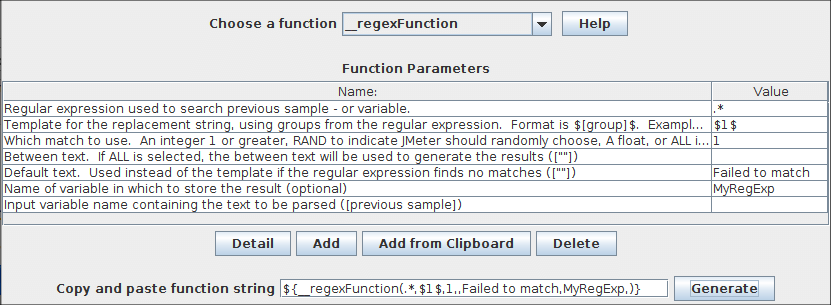
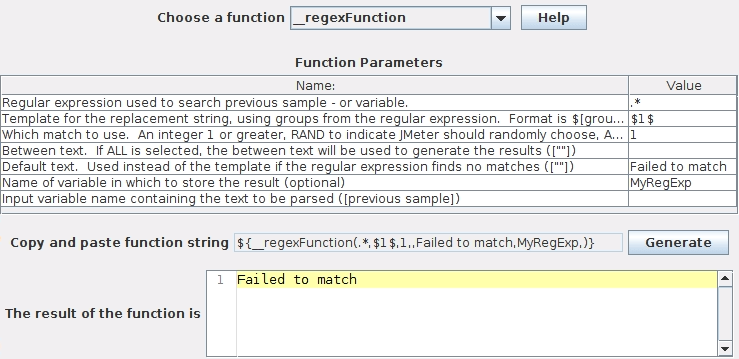
Bug 61593 - Remove Detail, Add, Add from Clipboard, Delete buttons in Function Helper GUI
git-svn-id: https://svn.apache.org/repos/asf/jmeter/trunk@1811449 13f79535-47bb-0310-9956-ffa450edef68

Former-commit-id: 27ee12c4b30f0329b08717eebb8753062e3b7835

diff --git a/src/core/org/apache/jmeter/config/gui/ArgumentsPanel.java b/src/core/org/apache/jmeter/config/gui/ArgumentsPanel.java
@@ -97,7 +97,11 @@ public class ArgumentsPanel extends AbstractConfigGui implements ActionListener 
     /** Button to show the detail of an argument*/
     private JButton showDetail;
 
+    /** Enable Up & Down buttons */
     private final boolean enableUpDown;
+    
+    /** Disable buttons :Detail, Add, Add from Clipboard, Delete, Up & Down*/
+    private final boolean disableButtons;
 
     /** Command for adding a row to the table. */
     private static final String ADD = "add"; // $NON-NLS-1$
@@ -152,6 +156,17 @@ public class ArgumentsPanel extends AbstractConfigGui implements ActionListener 
     public ArgumentsPanel(String label, boolean enableUpDown) {
         this(label, null, enableUpDown, false);
     }
+    
+    /**
+     * Create a new ArgumentsPanel as an embedded component, using the specified
+     * title.
+     * 
+     * @param disableButtons Remove Edit all buttons 
+     * @param label the title for the component.
+     */
+    public ArgumentsPanel(boolean disableButtons, String label) {
+        this(label, null, false, false, null, disableButtons);
+    }
 
     /**
      * Create a new ArgumentsPanel with a border and color background
@@ -170,9 +185,9 @@ public class ArgumentsPanel extends AbstractConfigGui implements ActionListener 
      * @param standalone is standalone
      */
     public ArgumentsPanel(String label, Color bkg, boolean enableUpDown, boolean standalone) {
-        this(label, bkg, enableUpDown, standalone, null);
+        this(label, bkg, enableUpDown, standalone, null, false);
     }
-       
+
     /**
      * Create a new ArgumentsPanel with a border and color background
      * @param label text for label
@@ -182,8 +197,22 @@ public class ArgumentsPanel extends AbstractConfigGui implements ActionListener 
      * @param model the table model to use
      */
     public ArgumentsPanel(String label, Color bkg, boolean enableUpDown, boolean standalone, ObjectTableModel model) {
+        this(label, bkg, enableUpDown, standalone, model, false);
+    }
+
+    /**
+     * Create a new ArgumentsPanel with a border and color background
+     * @param label text for label
+     * @param bkg background colour
+     * @param enableUpDown Add up/down buttons
+     * @param standalone is standalone
+     * @param model the table model to use
+     * @param disableButtons Remove all buttons 
+     */
+    public ArgumentsPanel(String label, Color bkg, boolean enableUpDown, boolean standalone, ObjectTableModel model, boolean disableButtons) {
         tableLabel = new JLabel(label);
         this.enableUpDown = enableUpDown;
+        this.disableButtons = disableButtons;
         this.background = bkg;
         this.standalone = standalone;
         this.tableModel = model;
@@ -297,25 +326,27 @@ public class ArgumentsPanel extends AbstractConfigGui implements ActionListener 
     }    
     
     protected void checkButtonsStatus() {
-        // Disable DELETE if there are no rows in the table to delete.
-        if (tableModel.getRowCount() == 0) {
-            delete.setEnabled(false);
-            showDetail.setEnabled(false);
-        } else {
-            delete.setEnabled(true);
-            showDetail.setEnabled(true);
+        if (!disableButtons) {
+            // Disable DELETE if there are no rows in the table to delete.
+            if (tableModel.getRowCount() == 0) {
+                delete.setEnabled(false);
+                showDetail.setEnabled(false);
+            } else {
+                delete.setEnabled(true);
+                showDetail.setEnabled(true);
+            }
+            if(enableUpDown) {
+                if(tableModel.getRowCount()>1) {
+                    up.setEnabled(true);
+                    down.setEnabled(true);
+                }
+                else {
+                    up.setEnabled(false);
+                    down.setEnabled(false);
+                }
+            }
         }
         
-        if(enableUpDown) {
-            if(tableModel.getRowCount()>1) {
-                up.setEnabled(true);
-                down.setEnabled(true);
-            }
-            else {
-                up.setEnabled(false);
-                down.setEnabled(false);
-            }
-        }
     }
 
     @Override
@@ -340,20 +371,23 @@ public class ArgumentsPanel extends AbstractConfigGui implements ActionListener 
      */
     @Override
     public void actionPerformed(ActionEvent e) {
-        String action = e.getActionCommand();
-        if (action.equals(DELETE)) {
-            deleteArgument();
-        } else if (action.equals(ADD)) {
-            addArgument();
-        } else if (action.equals(ADD_FROM_CLIPBOARD)) {
-            addFromClipboard();
-        } else if (action.equals(UP)) {
-            moveUp();
-        } else if (action.equals(DOWN)) {
-            moveDown();
-        } else if (action.equals(DETAIL)) {
-            showDetail();
+        if (!disableButtons) {
+            String action = e.getActionCommand();
+            if (action.equals(DELETE)) {
+                deleteArgument();
+            } else if (action.equals(ADD)) {
+                addArgument();
+            } else if (action.equals(ADD_FROM_CLIPBOARD)) {
+                addFromClipboard();
+            } else if (action.equals(UP)) {
+                moveUp();
+            } else if (action.equals(DOWN)) {
+                moveDown();
+            } else if (action.equals(DETAIL)) {
+                showDetail();
+            }
         }
+
     }
 
     
@@ -645,14 +679,15 @@ public class ArgumentsPanel extends AbstractConfigGui implements ActionListener 
      * @return a GUI panel containing the buttons
      */
     private JPanel makeButtonPanel() {
+
         showDetail = new JButton(JMeterUtils.getResString("detail")); // $NON-NLS-1$
         showDetail.setActionCommand(DETAIL);
         showDetail.setEnabled(true);
-        
+
         add = new JButton(JMeterUtils.getResString("add")); // $NON-NLS-1$
         add.setActionCommand(ADD);
         add.setEnabled(true);
-        
+
         // A button for adding new arguments to the table from the clipboard
         JButton addFromClipboard = new JButton(JMeterUtils.getResString("add_from_clipboard")); // $NON-NLS-1$
         addFromClipboard.setActionCommand(ADD_FROM_CLIPBOARD);
@@ -661,10 +696,10 @@ public class ArgumentsPanel extends AbstractConfigGui implements ActionListener 
         delete = new JButton(JMeterUtils.getResString("delete")); // $NON-NLS-1$
         delete.setActionCommand(DELETE);
 
-        if(enableUpDown) {
+        if (enableUpDown) {
             up = new JButton(JMeterUtils.getResString("up")); // $NON-NLS-1$
             up.setActionCommand(UP);
-    
+
             down = new JButton(JMeterUtils.getResString("down")); // $NON-NLS-1$
             down.setActionCommand(DOWN);
         }
@@ -683,7 +718,7 @@ public class ArgumentsPanel extends AbstractConfigGui implements ActionListener 
         buttonPanel.add(add);
         buttonPanel.add(addFromClipboard);
         buttonPanel.add(delete);
-        if(enableUpDown) {
+        if (enableUpDown) {
             up.addActionListener(this);
             down.addActionListener(this);
             buttonPanel.add(up);
@@ -711,7 +746,9 @@ public class ArgumentsPanel extends AbstractConfigGui implements ActionListener 
         p.add(makeMainPanel(), BorderLayout.CENTER);
         // Force a minimum table height of 70 pixels
         p.add(Box.createVerticalStrut(70), BorderLayout.WEST);
-        p.add(makeButtonPanel(), BorderLayout.SOUTH);
+        if (!disableButtons) {
+            p.add(makeButtonPanel(), BorderLayout.SOUTH);
+        }
 
         if (standalone) {
             add(p, BorderLayout.CENTER);

diff --git a/src/core/org/apache/jmeter/functions/gui/FunctionHelper.java b/src/core/org/apache/jmeter/functions/gui/FunctionHelper.java
@@ -102,7 +102,7 @@ public class FunctionHelper extends JDialog implements ActionListener, ChangeLis
     }
 
     private void init() { // WARNING: called from ctor so must not be overridden (i.e. must be private or final)
-        parameterPanel = new ArgumentsPanel(JMeterUtils.getResString("function_params"), false); //$NON-NLS-1$
+        parameterPanel = new ArgumentsPanel(true,JMeterUtils.getResString("function_params")); //$NON-NLS-1$
         initializeFunctionList();
         this.getContentPane().setLayout(new BorderLayout(10, 10));
         JPanel comboPanel = new JPanel(new FlowLayout(FlowLayout.CENTER));
@@ -120,7 +120,7 @@ public class FunctionHelper extends JDialog implements ActionListener, ChangeLis
         JButton generateButton = new JButton(JMeterUtils.getResString("generate")); //$NON-NLS-1$
         generateButton.addActionListener(this);
         generatePanel.add(generateButton);
-        resultTextArea = JSyntaxTextArea.getInstance(5,50);
+        resultTextArea = JSyntaxTextArea.getInstance(5,60);
         resultTextArea.setToolTipText(JMeterUtils.getResString("function_helper_dialog_result_warn"));
         displayPanel.add(new JLabel(JMeterUtils.getResString("result_function")));
         displayPanel.add(JTextScrollPane.getInstance(resultTextArea));
